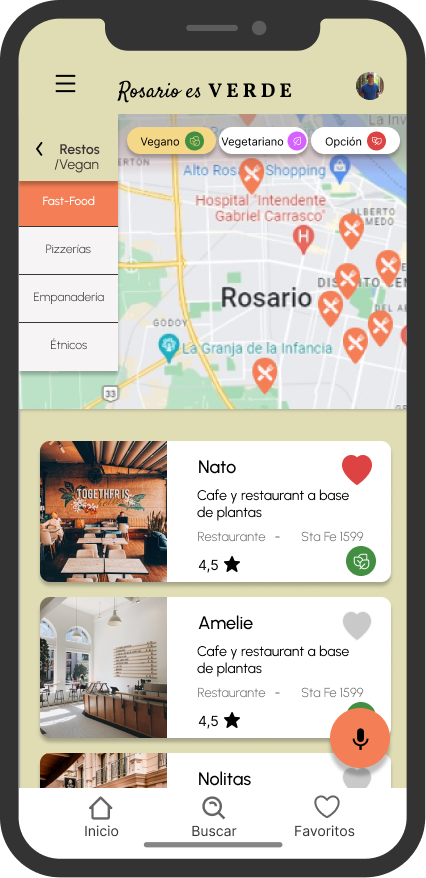
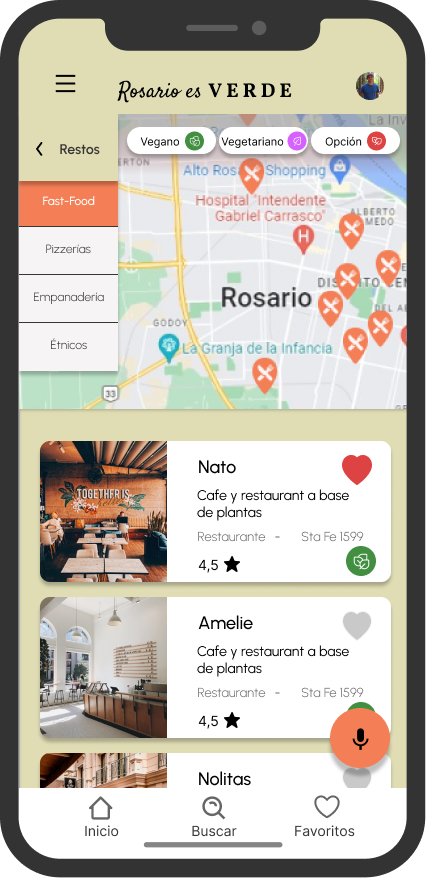
verde changes

Changed region(s): [[0.3052, 0.123, 0.5188, 0.1845], [0.1526, 0.1845, 0.2136, 0.2153]]

diff --git a/rosario.html b/rosario.html
@@ -181,9 +181,26 @@
                                 implemented in my design like the ability for users to upload their photos, a link to each place's menu, etc.</br>
                                 It also allow me to see how the filters work and realized that the use of too many colors in a small layout like 
                                 that of a cell phone can be a little overwhelming.</p>
+							<p>All in all, it showed that there is plenty of room for improvement to provide a smoother interface.</p>	
 
-                            <div class='zoom' class="image fit"><img src="images/verde/competitive1.jpg" alt="competitive audit" /></div>
-							<div class='zoom' class="image fit"><img src="images/verde/competitive2.jpg" alt="competitive audit" /></div>
+                            <div class="competitive-slider">
+								
+								<ul class="slider">
+								<li id="slider1">
+									<img src="images/verde/competitive-audit-1.png"/>
+								</li>
+								<li id="slider2">
+									<img src='images/verde/competitive-audit-2.png'/>
+								</li>
+								<li id="slider3">
+									<img src='images/verde/competitive-audit3.png'/>
+								</li>
+								<li id="slider4">
+									<img src='images/verde/competitive-audit4.png'/>
+								</li>
+								</ul>
+								
+							</div>
 
 						</div>	
 
@@ -249,14 +266,14 @@
 									<ul>
 									<li style="list-style-type: disc;">Added the possibility to add a store to favorites from the store-cards view.</li>
 									<li style="list-style-type: disc;">The score stars were changed to a number to maximize space on the card.</li>
-									<li style="list-style-type: disc;">Dietary needs filters were reduced to one line only</li>
-									<li style="list-style-type: disc;">When selecting a dietary need, I added the wording into the UI to let the user know exactly what his selection is and not rely solely on the change of color of the button on top.</li>
-									<li style="list-style-type: disc;">The favorites icon on the store page was then set to fixed so the user can store it without going all the way up.</li>
+									<li style="list-style-type: disc;">Dietary needs filters (vegan, vegetarian and vegan options) were reduced to one line only to make more room to see the map.</li>
+									<li style="list-style-type: disc;">When selecting a dietary need, I added the wording into the UI to let the user know exactly what his selection is and not rely solely on the change of color of the dietary bullets on top.</li>
+									<li style="list-style-type: disc;">The favorites icon on the store page was then set to fixed so the user can store it without going all the way up to save a store in favorites while browsing its page.</li>
 									</ul>
 								</div>
 							</div>
 
-							<h5 style="margin: 2em 0 2em 0; text-align: center;">MockUps</h5>
+							<h5 style="margin: 4em 0 2em 0; text-align: center;">MockUps</h5>
 							<div class="box alt">
 								<div class="row gtr-uniform" >
 									<div class="col-4 col-6-medium"><span class="image fit"><img src="images/verde/home.png" alt="Home-Mobile" /></span></div>
@@ -278,7 +295,7 @@
 							<div class="row gtr-uniform">
 								<div class="col-6">
 									<ul>
-									<li style="list-style-type: disc;">Mobile: Font in no smaller than 14p.</li>
+									<li style="list-style-type: disc;">Mobile: Font no smaller than 14p.</li>
 									<li style="list-style-type: disc;">Icons are accompanied by text.</li>
 									<li style="list-style-type: disc;">Color contrasts meet Material Design standards</li>
 									</ul>
@@ -295,11 +312,11 @@
 							<p>After creating the dedicated mobile experience, I started the whole design thinking process again to consider different use cases.</p>
 							<span class="image fit"><img src="images/verde/web-frame.png" alt="Desktop" /></span>
 							<ul class="alt">
-								<li>What are my users' motivations and goals?</li>
+								<li>What are my users' motivations and goals when using this product on a desktop?</li>
 								<li>How can the companion website support the dedicated mobile app?</li>
 								<li></li>
 							</ul>
-							<p>As this app is meant to be a map to use on the go on a mobile, the desktop version could complement it with added features to make it into a different experience 
+							<p>As this app is meant to be a map to use on the go on a mobile, the desktop version could complement it with added features, like pages with articles, to make it into a different experience 
 								without losing the consistency or coherence of its mobile version.</p>
 
 							<div class="box alt">
@@ -322,8 +339,9 @@
 							</div>
 
 							<h4>Takeaways</h4>
-							<p>This project was challenging since it involved making a lot of information available in the clearest and fastest possible way without making it too crowded.</br>
-							With every project, I learned the importance of having a system to follow but allowing for flexibility at the same time as one needs to be constantly iterating on each phase.</p>
+							<p>This project was challenging since it involved making a lot of information available in the clearest and fastest possible way without making it too crowded or confusing.</br>
+							As it involved the creation of many different filters to scan information based on common criteria, I learned the importance of having a system to follow that can expand easily but allowing for 
+							flexibility at the same time as one needs to be constantly iterating on each phase.</p>
 							<p>This design was meant for social good and it is a topic that is close to my heart so I really enjoyed it and learned a lot along the way.</p>
 						</div>
 					</div>
@@ -337,7 +355,7 @@
 							<p class="footer-text">Thank you for reviewing my work on this project meant for social good as part of my last assignment for the Google UX Design Certificate.</p>
 							<p class="footer-text">Let's get in touch</p>
 						</div>
-						<div class="inner" >	
+						<div class="inner" style="align-items: center;" >	
 							<ul class="actions">
 								<li><a href="https://www.linkedin.com/in/tamara-abelda%C3%B1o-a9545437/" target="_blank" rel="noopener noreferrer" class="icon brands style2 fa-linkedin"><span class="label">LinkedIn</span></a></li>
 								<li><a href="mailto:tamara.abeldanio@gmail.com" target="_blank" rel="noopener noreferrer" class="icon brands style2"><i class="fa-solid fa-envelope"></i></a></li>

diff --git a/assets/css/main.css b/assets/css/main.css
@@ -3390,7 +3390,7 @@ input, select, textarea {
 
 		}
 
-/* slider */
+/* sliders */
 
 .wireframe-slider{
 	margin: auto;
@@ -3465,3 +3465,46 @@ input, select, textarea {
  .zoom:hover{
 	 transform: scale(1.5);
  }
+
+ .competitive-slider{
+	margin: auto;
+	width: 95%;
+	overflow: hidden;
+	
+  }
+
+  .competitive-slider > ul {
+	display: flex;
+	padding: 0;
+	list-style: none;
+	width: 400%;
+
+	animation: slide-competitive 30s infinite;
+	animation-direction: alternate;
+}
+
+.competitive-slider > li {
+  width: 100%;
+  list-style: none;
+  padding: 0;
+}
+
+.competitive-slider img {
+  width: 90%;
+}
+
+@keyframes slide-competitive {
+	0% {margin-left: 0;}
+	25% { margin-left: 0;}
+
+	27% {margin-left: -100%;}
+	50% { margin-left: -100%;}
+
+	53% {margin-left: -200%;}
+	75% { margin-left: -200%;}
+
+	77% {margin-left: -300%;}
+	100% { margin-left: -300%;}
+	
+}
+ 
